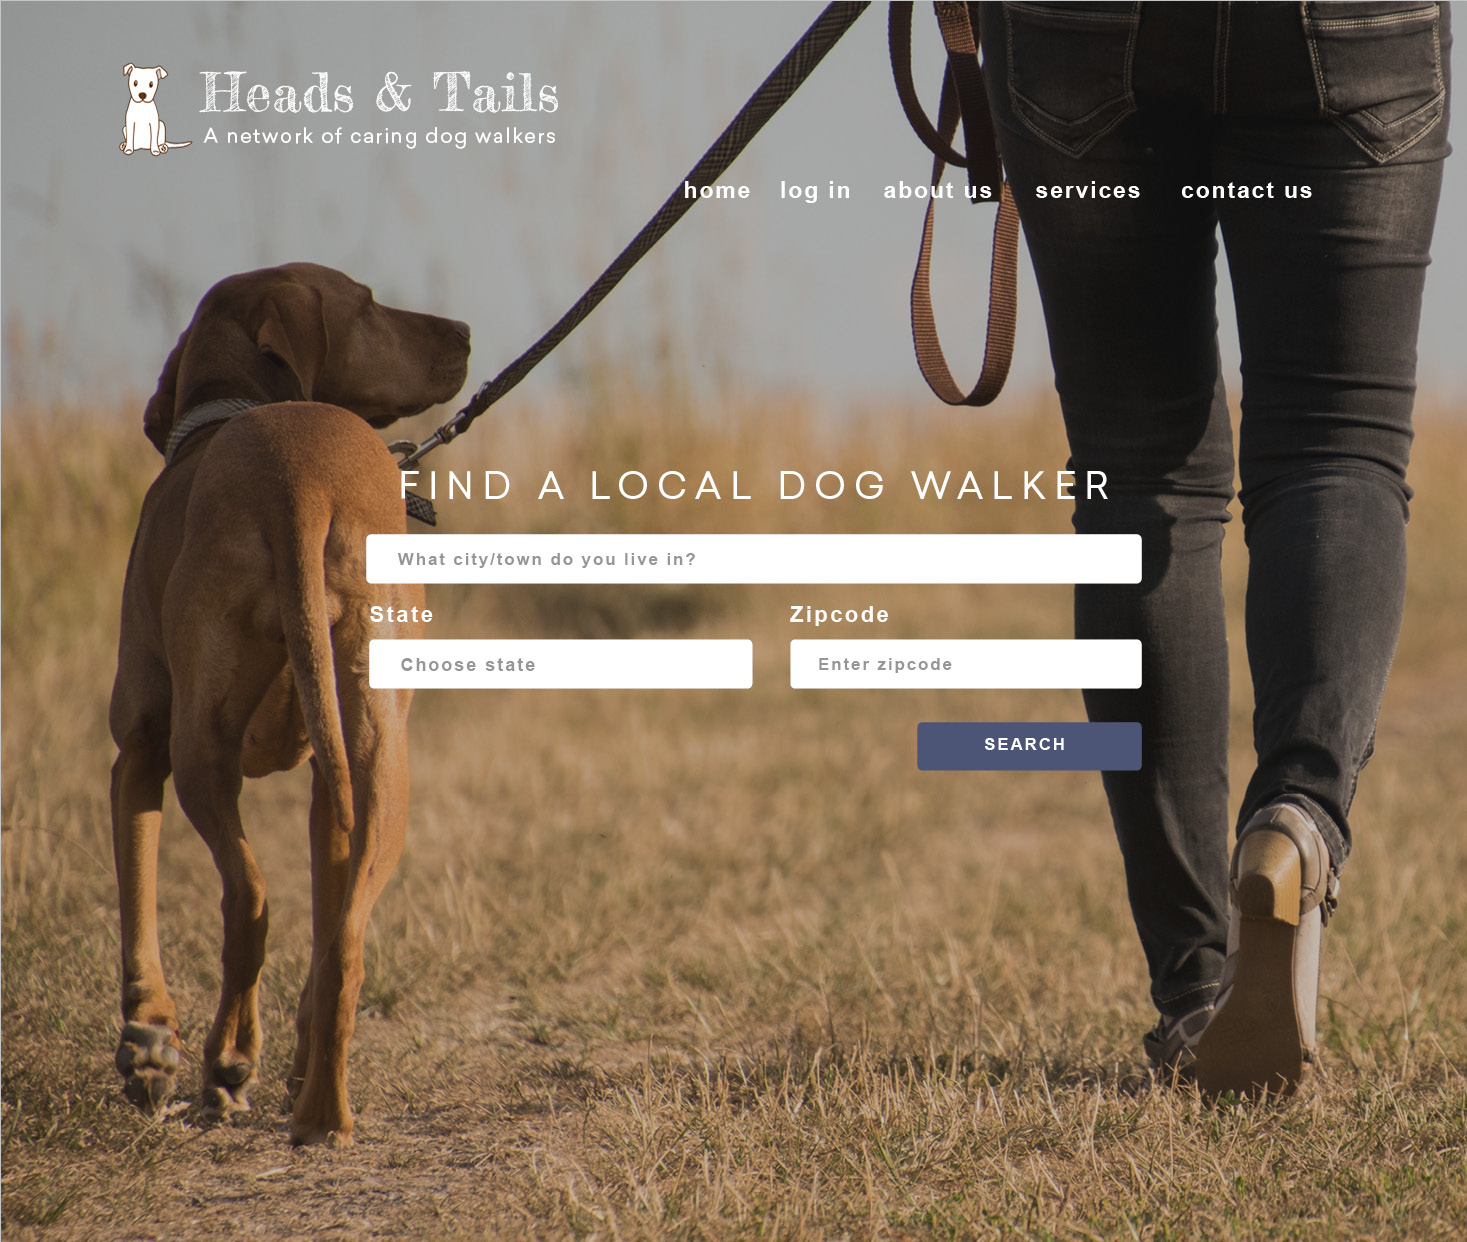
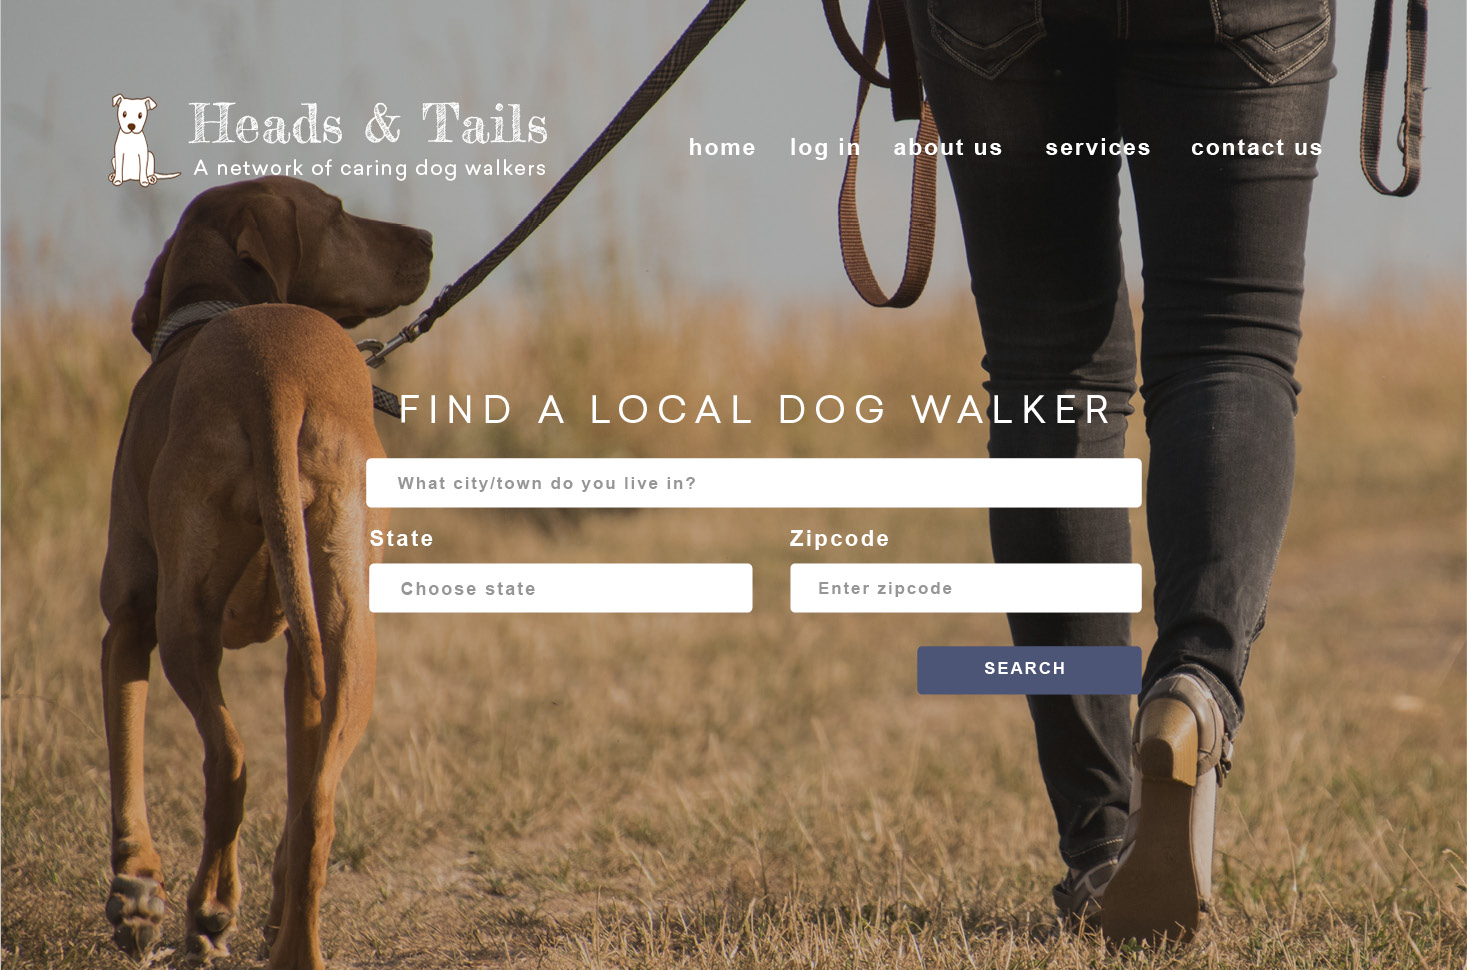
all misc. changes

diff --git a/itis3135/projects/client/styles/newdefault.css b/itis3135/projects/client/styles/newdefault.css
@@ -1,14 +1,14 @@
 @import url('https://fonts.googleapis.com/css2?family=Poppins:wght@400;500;600;700&display=swap');
-
+@import url('https://fonts.googleapis.com/css2?family=Lato:wght@300;400;700&display=swap');
 :root {
-  --bg-color: #f7f3ee;
+  --bg-color: #ffffff;
 
   --text-color: #111;
   --secondary-text: #999;
   --muted-text: #777;
 
-  --header-bg: #f7f3ee;
-  --footer-bg: #f7f3ee;
+  --header-bg: #ffffff;
+  --footer-bg: #ffffff;
 
   --sidebar-bg: #111;
   --sidebar-text: #ccc;
@@ -61,7 +61,7 @@
   margin: 0;
   padding: 0;
   box-sizing: border-box;
-  font-family: 'Poppins', sans-serif;
+  font-family: 'Lato', sans-serif;
 }
 
 body {
@@ -81,6 +81,7 @@ body {
   background: var(--header-bg);
   z-index: 1000;
   transition: background-color 0.3s ease, color 0.3s ease;
+  font-family: 'Lato', sans-serif;
 }
 
 .logo {
@@ -530,8 +531,6 @@ hr {
     object-fit: cover;
     border-radius: 12px;
 
-    border: 1px solid var(--border-light);
-
     display: block;
 }
 
@@ -550,35 +549,36 @@ hr {
 }
 
 .slide-info {
+	font-family: 'Lato', sans-serif;
     text-align: center;
     margin-top: 15px;
     color: var(--text-color);
 }
 
 .slide-info p {
+	font-family: 'Lato', sans-serif;
     color: var(--secondary-text);
     font-size: 14px;
+	font-weight: 100;
 }
 
 .slide-info h3 {
-    font-weight: 300;
+	font-family: 'Lato', sans-serif;
+    font-weight: 500;
+	font-size: 14px;
 }
 
 .hero-intro {
+	font-family: 'Lato', sans-serif;
     text-align: center;
     min-height: 2em;
 
-    font-size: 1.7rem;
+    font-size: 1rem;
     font-weight: 300;
-    letter-spacing: 1px;
-
+	color: var(--secondary-text);
 }
 
-#hero-text::after {
-    content: "|";
-    margin-left: 2px;
-    animation: blink 0.8s infinite;
-}
+
 
 @keyframes blink {
     50% {

diff --git a/itis3135/projects/client/styles/cloudburst.css b/itis3135/projects/client/styles/cloudburst.css
@@ -5,11 +5,11 @@
   margin: 0;
   padding: 0;
   box-sizing: border-box;
-  font-family: 'Poppins', sans-serif;
+  font-family: 'Lato', sans-serif;
 }
 
 body {
-	background-color: #f7f3ee;
+	background-color: #ffffff;
 }
 
 .header {
@@ -17,8 +17,9 @@ body {
   justify-content: space-between;
   align-items: center;
   padding: 25px 50px;
-  background: #f7f3ee;
+  background: #ffffff;
   z-index: 1000;
+  font-family: 'Lato', sans-serif;
 }
 
 .logo {
@@ -129,7 +130,7 @@ footer {
   justify-content: center;
   align-items: center;
   padding: 25px 50px;
-  background: #f7f3ee;
+  background: #ffffff;
   border-top: 1px solid #eee;
   font-family: 'Poppins', sans-serif;
   color: #999;
@@ -170,7 +171,7 @@ footer a {
   flex-direction: column;
   justify-content: flex-start;
   padding: 0 40px;
-  background: #f7f3ee;
+  background: #ffffff;
   height: auto;
   font-family: 'Poppins', sans-serif;
 }
@@ -216,7 +217,7 @@ footer a {
 
 hr {
   border: 0;
-  border-top: 1px solid #eee;
+  border-top: 1px solid #999;
   margin-bottom: 40px;
 }
 

diff --git a/itis3135/projects/client/about.html b/itis3135/projects/client/about.html
@@ -27,18 +27,15 @@
     </p>
 
     <p>
-	When the screen goes dark, I can be found in the garden losing track of time, or in the kitchen tackling a new culinary challenge. Most recently, I’ve been revisiting a chocolate chip cookie recipe I spent a decade perfecting, tweaking the hydration levels to ensure they stay soft for days (though, truth be told, they rarely last more than 24 hours in my house).
+	When the screen goes dark, I can be found in the garden losing track of time, or in the kitchen tackling a new culinary challenge.
     </p>
 	
 	<p>
-	Is it possible to be too invested in the sugar-to-butter ratio of a cookie? Probably. But that same relentless pursuit of “just right” is exactly what I bring to every project. If you’re interested in collaborating or would like to see my latest work, I’d love to hear from you.
+	If you’re interested in collaborating or would like to see my latest work, I’d love to hear from you.
 	</p>
 	
 	<a href="https://mail.google.com/mail/?view=cm&fs=1&to=[email redacted]" target="_blank" class="project-link">Send me an email.</a>
 	
-	<p>
-	(Photo of me at age 7)
-	</p>
 
   </div>
 </div>

diff --git a/itis3135/projects/client/index.html b/itis3135/projects/client/index.html
@@ -14,8 +14,8 @@
 
 <main>
 
-<section class="hero-intro">
-    <p id="hero-text"></p>
+<section class="hero-intro fade-in">
+    <p id="hero-text">I’m Deanna, a graphic designer who helps companies reimagine their identities and craft stories worth telling.</p>
 </section>
 
 <section class="portfolio-carousel">
@@ -174,7 +174,8 @@
 <script src="./scripts/HTMLInclude.min.js"></script>
 <script src="./scripts/sidebar.js"></script>
 <script src="./scripts/theme-toggle.js" defer></script>
-<script src="./scripts/typewriter.js"></script>
+<!--<script src="./scripts/typewriter.js"></script> -->
+<script src="./scripts/fadetext.js"></script>
 
 </body>
 </html>

diff --git a/itis3135/projects/client/styles/about.css b/itis3135/projects/client/styles/about.css
@@ -10,7 +10,7 @@
 }
 
 body {
-	background-color: #f7f3ee;
+	background-color: #ebebeb;
 }
 
 .header {
@@ -18,7 +18,7 @@ body {
   justify-content: space-between;
   align-items: center;
   padding: 25px 50px;
-  background: #f7f3ee;
+  background: #ebebeb;
   z-index: 1000;
 }
 
@@ -108,7 +108,7 @@ footer {
   justify-content: center;
   align-items: center;
   padding: 25px 50px;
-  background: #f7f3ee;
+  background: #ebebeb;
   border-top: 1px solid #eee;
   font-family: 'Poppins', sans-serif;
   color: #999;

diff --git a/itis3135/projects/client/aip.html b/itis3135/projects/client/aip.html
@@ -25,6 +25,8 @@
 	  AIP (Associates in Periodontics) was a full-scale identity refresh aimed at bringing a high-end, modern feel to a specialized dental practice. I led the creative direction for the update, moving away from dated medical aesthetics to establish a cohesive brand that spans everything from a new logo and custom color palette to a complete website redesign. Beyond the outward-facing visuals, I revamped the practice's stationery and internal forms to ensure that every patient touchpoint feels organized and professional. This transformation not only polished the firm's public image but also simplified their day-to-day administrative flow, proving that great design can be as functional as it is beautiful.
       </p>
 	  </div>
+	  
+	  <a href="https://www.periofortcollins.com" target="_blank" class="project-link">periofortcollins.com</a>
 
       <hr>
 

diff --git a/itis3135/projects/client/cloudburst.html b/itis3135/projects/client/cloudburst.html
@@ -28,7 +28,7 @@
       </p>
 	  </div>
 
-      <a href="https://cloudburstsprinkler.com" target="_blank" class="project-link">Visit the Cloudburst website</a>
+      <a href="https://cloudburstsprinkler.com" target="_blank" class="project-link">cloudburstsprinkler.com</a>
 
       <hr>
 

diff --git a/itis3135/projects/client/scripts/typewriter.js b/itis3135/projects/client/scripts/typewriter.js
@@ -1,4 +1,4 @@
-const text = "Hi, my name is Deanna. ";
+const text = "I’m Deanna, a graphic designer who helps companies reimagine their identities and craft stories worth telling. ";
 const target = document.getElementById("hero-text");
 
 let index = 0;